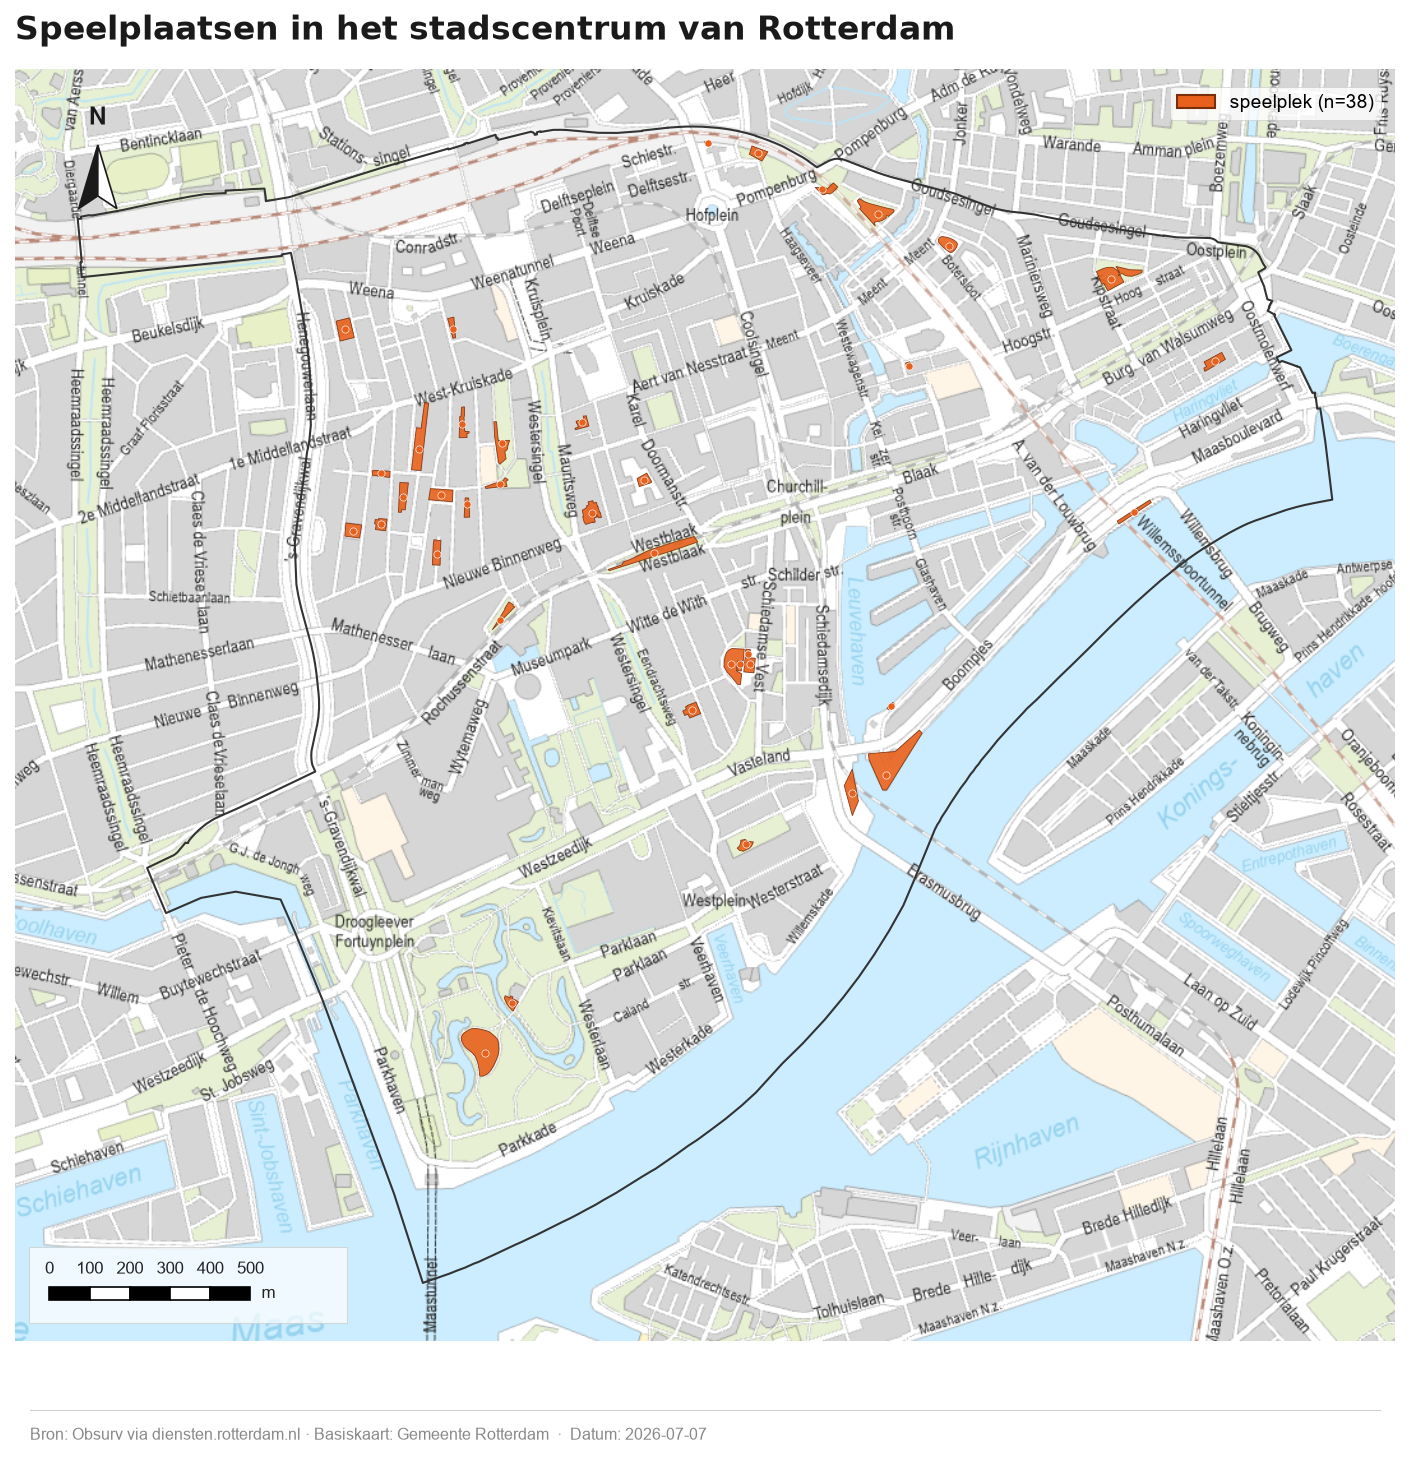
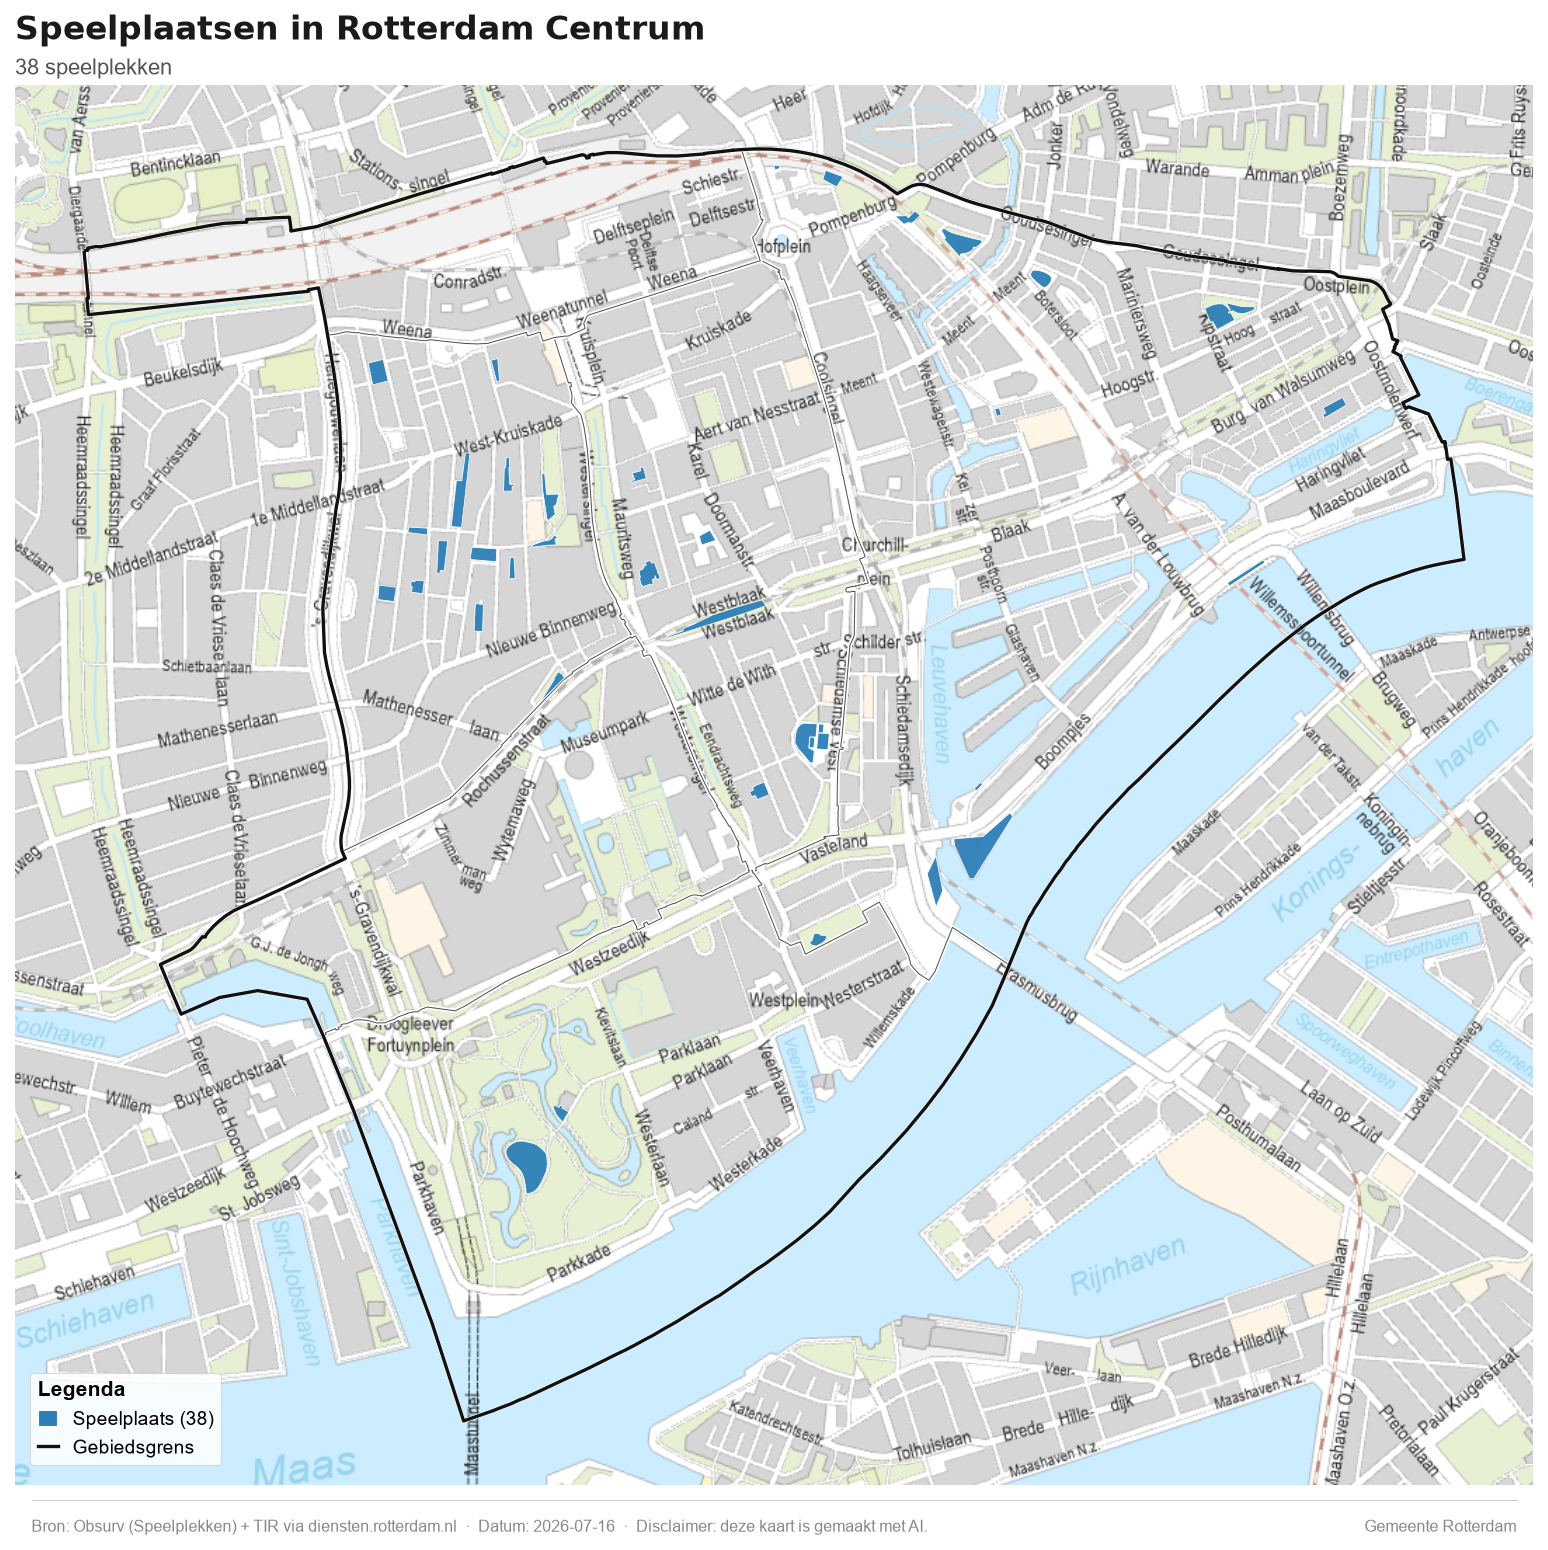
Kaart: alle speelplaatsen in Rotterdam Centrum
Puntenkaart (uniform) van alle 38 speelplekken in gebied Rotterdam Centrum op de
gekleurde Rotterdam-basemap, volgens de conventies (titel/subtitel boven de kaart,
datavrije legenda, footer met bron; validate_map schoon). Geen witruimte onder de
kaart dankzij finalize_map(tight_bottom=True) + fit_figure_to_data.

diff --git a/General data/scripts/kaart_speelplaatsen_rotterdam_centrum.py b/General data/scripts/kaart_speelplaatsen_rotterdam_centrum.py
@@ -1,0 +1,82 @@
+"""Alle speelplaatsen in Rotterdam Centrum (één uniforme weergave).
+
+Gemaakt met de rotterdam-geoai skill: speelplekken (Obsurv/SB_Infra) gefilterd op
+gebied Rotterdam Centrum, op de gekleurde Rotterdam-basemap, met de conventies
+(titel/subtitel boven de kaart, datavrije legenda, footer met bron).
+"""
+import sys
+sys.path.insert(0, r"C:\Users\134020\Downloads\geoai-rotterdam-main\General data")
+
+import geopandas as gpd
+import matplotlib.pyplot as plt
+import matplotlib.patheffects as pe
+from matplotlib.patches import Patch
+from matplotlib.lines import Line2D
+
+from rotterdam import (
+    load_layer, fetch_arcgis_layer, style_map, finalize_map, fit_figure_to_data,
+    place_legend, add_rotterdam_basemap, add_pdok_basemap, validate_map, save_map,
+    setup_headless_matplotlib, RD_NEW, CACHE,
+)
+
+setup_headless_matplotlib()
+
+SPEEL_URL = "https://diensten.rotterdam.nl/arcgis/rest/services/SB_Infra/Speelplekken/MapServer/0"
+CACHE_FILE = CACHE / "speelplekken.geojson"
+SPEEL_KLEUR = "#2c7fb8"
+
+# 1. Speelplekken (met cache)
+if CACHE_FILE.exists():
+    speel = gpd.read_file(CACHE_FILE)
+else:
+    CACHE.mkdir(parents=True, exist_ok=True)
+    fc = fetch_arcgis_layer(SPEEL_URL)
+    speel = gpd.GeoDataFrame.from_features(fc["features"], crs=RD_NEW)
+    speel.to_file(CACHE_FILE, driver="GeoJSON")
+
+gebieden = load_layer("gebieden")
+buurten = load_layer("buurten")
+centrum = gebieden[gebieden["GEBDNAAM"] == "Rotterdam Centrum"]
+centrum_buurten = buurten[buurten["GEBDNAAM"] == "Rotterdam Centrum"]
+speel_c = speel[speel.intersects(centrum.geometry.iloc[0])].copy()
+print(f"{len(speel_c)} speelplaatsen in Rotterdam Centrum")
+
+# 2. Tekenen: buurtgrenzen (witte casing) + alle speelplaatsen (uniform)
+fig, ax = plt.subplots(figsize=(11, 11))
+ax.set_aspect("equal")
+casing = [pe.withStroke(linewidth=2.0, foreground="white")]
+centrum_buurten.boundary.plot(ax=ax, color="#555555", linewidth=0.5, zorder=5,
+                              path_effects=casing)
+centrum.boundary.plot(ax=ax, color="#111111", linewidth=1.6, zorder=6,
+                      path_effects=casing)
+speel_c.plot(ax=ax, facecolor=SPEEL_KLEUR, edgecolor="white", linewidth=0.4,
+             alpha=0.95, zorder=7)
+
+# 3. Gekleurde Rotterdam-basemap (inv. 10), met PDOK-fallback (inv. 12)
+bron = "Obsurv (Speelplekken) + TIR via diensten.rotterdam.nl"
+try:
+    add_rotterdam_basemap(ax, layer="kleur")
+except Exception as e:
+    print("Rotterdam-basemap faalde, val terug op PDOK:", type(e).__name__)
+    add_pdok_basemap(ax, layer="grijs")
+    bron += " · Basiskaart: PDOK BRT"
+
+# 4. Kaartelementen + footer + datavrije legenda
+style_map(ax, "Speelplaatsen in Rotterdam Centrum",
+          subtitle=f"{len(speel_c)} speelplekken")
+# tight_bottom: kleinere ondermarge (geen schaalstok in de kaart);
+# fit_figure_to_data: figuurhoogte op de Centrum-vorm passen (geen witruimte)
+finalize_map(fig, source=bron, tight_bottom=True)
+fit_figure_to_data(fig, ax)
+handles = [
+    Patch(facecolor=SPEEL_KLEUR, edgecolor="white", label=f"Speelplaats ({len(speel_c)})"),
+    Line2D([0], [0], color="#111111", linewidth=1.6, label="Gebiedsgrens"),
+]
+place_legend(ax, handles, [h.get_label() for h in handles],
+             title="Legenda", corner="auto", data=speel_c)
+
+warns = validate_map(fig, ax, data=speel_c)
+if warns:
+    print("Waarschuwingen:", *warns, sep="\n  - ")
+out = save_map(fig, "speelplaatsen_rotterdam_centrum")
+print("Kaart opgeslagen:", out)